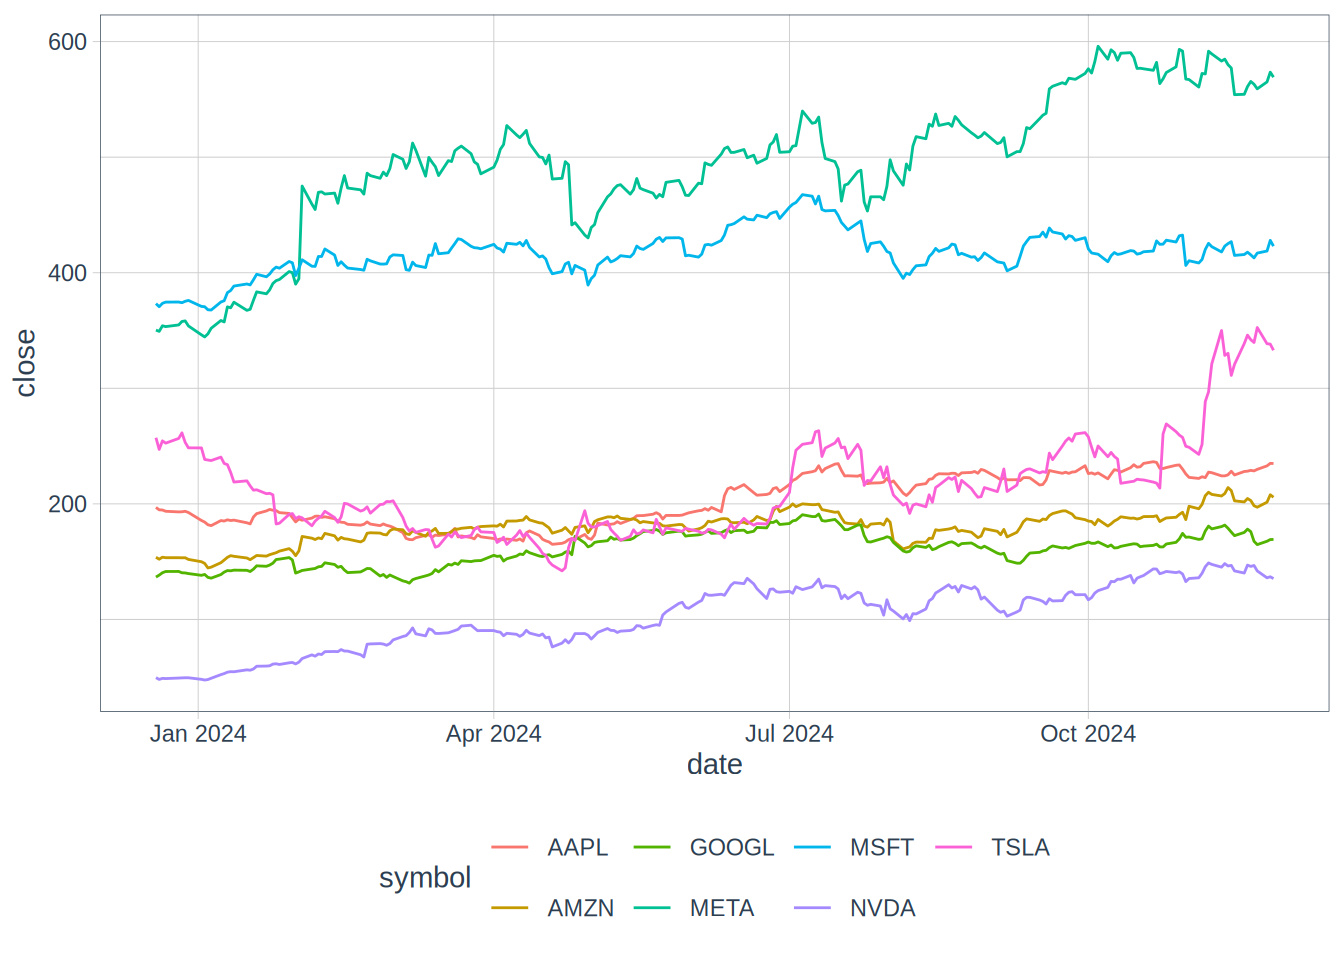
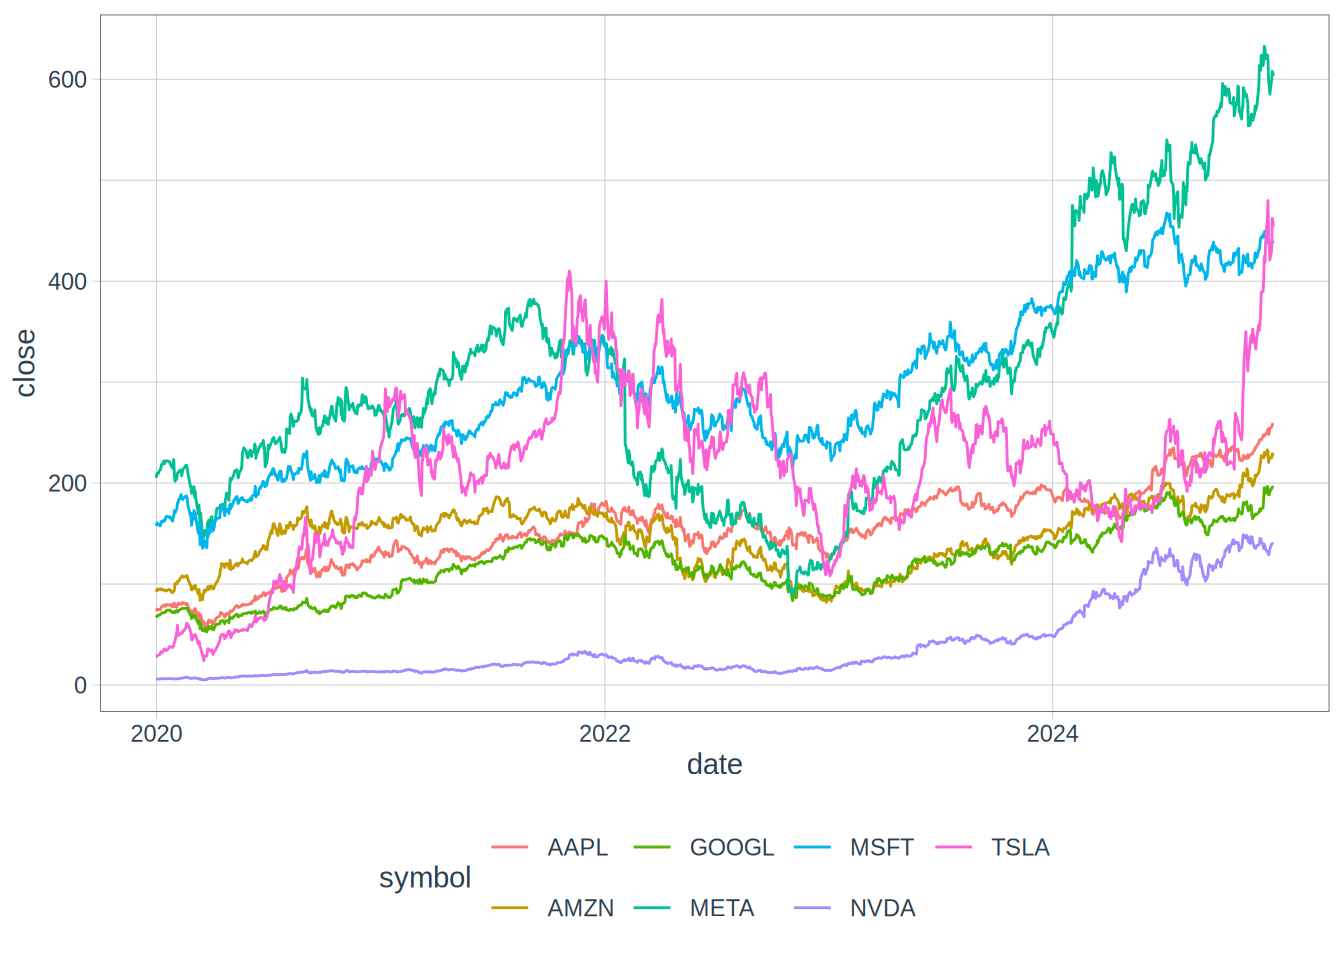
look back post render commit

diff --git a/docs/posts/best-worst-market-returns2024/index.html b/docs/posts/best-worst-market-returns2024/index.html
@@ -6,10 +6,10 @@
 
 <meta name="viewport" content="width=device-width, initial-scale=1.0, user-scalable=yes">
 
-<meta name="author" content="Your Name">
-<meta name="dcterms.date" content="2024-11-28">
+<meta name="author" content="Rob">
+<meta name="dcterms.date" content="2024-12-27">
 
-<title>Your Document Title – Rob’s Blog</title>
+<title>Looking Back at Tech – Rob’s Blog</title>
 <style>
 code{white-space: pre-wrap;}
 span.smallcaps{font-variant: small-caps;}
@@ -144,8 +144,11 @@ pre > code.sourceCode > span > a:first-child::before { text-decoration: underlin
 <header id="title-block-header" class="quarto-title-block default page-columns page-full">
   <div class="quarto-title-banner page-columns page-full">
     <div class="quarto-title column-body">
-      <h1 class="title">Your Document Title</h1>
-                      </div>
+      <h1 class="title">Looking Back at Tech</h1>
+                                <div class="quarto-categories">
+                <div class="quarto-category">market</div>
+              </div>
+                  </div>
   </div>
     
   
@@ -154,14 +157,14 @@ pre > code.sourceCode > span > a:first-child::before { text-decoration: underlin
       <div>
       <div class="quarto-title-meta-heading">Author</div>
       <div class="quarto-title-meta-contents">
-               <p>Your Name </p>
+               <p>Rob </p>
             </div>
     </div>
       
       <div>
       <div class="quarto-title-meta-heading">Published</div>
       <div class="quarto-title-meta-contents">
-        <p class="date">November 28, 2024</p>
+        <p class="date">December 27, 2024</p>
       </div>
     </div>
     
@@ -180,38 +183,45 @@ pre > code.sourceCode > span > a:first-child::before { text-decoration: underlin
 
 
 
+<section id="a-look-back-at-tech" class="level1">
+<h1>A Look Back at Tech</h1>
+<p>2024 is finally wrapping up, and it’s time to reconnect with the family and friends you’ve been avoiding all year. As you gather around, beers in hand, you quickly realize that the market has made everyone (else) rich this year. They’re tossing around buzzwords like: Clusters, Large Language Models, Silicon, Artificial Intelligence—words that have been soldered into your brain over the last few years. You lower your head in shame, knowing the only “chips” you bought this year were the ones that taste like Sour Cream and Onion.</p>
+<p>For much of 2023 and 2024 market returns have seemingly been concentrated in a handful of technology companies, particularly those focused on artificial intelligence. As a thought experiment, I thought it would be interesting to see what the sweet gains would like if I was able to jump into a time machine and purchase these stocks on the best day. For added fun, (and as an illustration of my luck), I also wanted to see what the largest losses would be if I had purchased the stock right before it had its worst draw down over the period and then sold at the low.</p>
+<p>To set this up this scenario, we are going to look at the stocks that make up the Bloomberg Magnificent 7 - AAPL, AMZN, GOOGL, META, MSFT, NVDA, TSLA. We are going to find the highest and lowest amount of profits that could have been made if I purchased a stock at one close price and sold it at another close price (a total of 2 transactions). Lets assume that I cannot sell a stock before it has been purchased and stock can be bought and sold on the same day (resulting in a profit of $0).</p>
+<p>First, lets load the libraries that we are going to be using to conduct our analysis.</p>
 <div class="cell">
 <div class="sourceCode cell-code" id="cb1"><pre class="sourceCode r code-with-copy"><code class="sourceCode r"><span id="cb1-1"><a href="#cb1-1" aria-hidden="true" tabindex="-1"></a><span class="co"># Load the libraries that are going to be used</span></span>
-<span id="cb1-2"><a href="#cb1-2" aria-hidden="true" tabindex="-1"></a><span class="fu">library</span>(tidyverse)</span>
-<span id="cb1-3"><a href="#cb1-3" aria-hidden="true" tabindex="-1"></a><span class="fu">library</span>(tidyquant)</span></code><button title="Copy to Clipboard" class="code-copy-button"><i class="bi"></i></button></pre></div>
+<span id="cb1-2"><a href="#cb1-2" aria-hidden="true" tabindex="-1"></a><span class="fu">library</span>(tidyverse) <span class="co"># To help with out data frame management and manipulation.</span></span>
+<span id="cb1-3"><a href="#cb1-3" aria-hidden="true" tabindex="-1"></a><span class="fu">library</span>(tidyquant) <span class="co"># this will help us gather the closing stock prices. </span></span></code><button title="Copy to Clipboard" class="code-copy-button"><i class="bi"></i></button></pre></div>
 </div>
+<p>Next, we will define a vector called stock_symbols and place the tickers for the companies that we are interested in looking at. The symbols I have chosen make up the Bloomberg Magnificent 7.</p>
+<p>After the tickers are defined, we pass these tickers through tidyquant’s built in tq_get() function, which will pull the daily volume and open, high, low, close, and adjusted stock prices for each of the symbols we defined. I am only interested in the closing price for each ticker, so I will use the select() function to extract the symbol, date, and close columns from the pulled data. Lets take a look at the first 10 rows to make sure we have the data we are looking for.</p>
 <div class="cell">
-<div class="sourceCode cell-code" id="cb2"><pre class="sourceCode r code-with-copy"><code class="sourceCode r"><span id="cb2-1"><a href="#cb2-1" aria-hidden="true" tabindex="-1"></a><span class="co"># Define the stock symbols. These will be pilled from yahoo finance. This is the Bloomberg Magnificent 7.</span></span>
+<div class="sourceCode cell-code" id="cb2"><pre class="sourceCode r code-with-copy"><code class="sourceCode r"><span id="cb2-1"><a href="#cb2-1" aria-hidden="true" tabindex="-1"></a><span class="co"># Define the stock symbols.</span></span>
 <span id="cb2-2"><a href="#cb2-2" aria-hidden="true" tabindex="-1"></a>stock_symbols <span class="ot">&lt;-</span> <span class="fu">c</span>(<span class="st">"AAPL"</span>, <span class="st">"AMZN"</span>, <span class="st">"GOOGL"</span>, <span class="st">"META"</span>, <span class="st">"MSFT"</span>, <span class="st">"NVDA"</span>, <span class="st">"TSLA"</span>)</span>
 <span id="cb2-3"><a href="#cb2-3" aria-hidden="true" tabindex="-1"></a></span>
-<span id="cb2-4"><a href="#cb2-4" aria-hidden="true" tabindex="-1"></a><span class="co"># Get the prices from yahoo finance using tidyquant from last year year end to date. From the original data that is pulled in, only keep the clsoing price and date for each symbol. IF there are errors, just rerun.``</span></span>
-<span id="cb2-5"><a href="#cb2-5" aria-hidden="true" tabindex="-1"></a>stock_prices <span class="ot">&lt;-</span> <span class="fu">tq_get</span>(stock_symbols, <span class="at">from=</span><span class="st">"2023-12-19"</span>) <span class="sc">%&gt;%</span> </span>
-<span id="cb2-6"><a href="#cb2-6" aria-hidden="true" tabindex="-1"></a>  <span class="fu">select</span>(symbol, date, close)</span>
-<span id="cb2-7"><a href="#cb2-7" aria-hidden="true" tabindex="-1"></a></span>
-<span id="cb2-8"><a href="#cb2-8" aria-hidden="true" tabindex="-1"></a><span class="co"># Show the stock prices</span></span>
-<span id="cb2-9"><a href="#cb2-9" aria-hidden="true" tabindex="-1"></a>stock_prices</span></code><button title="Copy to Clipboard" class="code-copy-button"><i class="bi"></i></button></pre></div>
+<span id="cb2-4"><a href="#cb2-4" aria-hidden="true" tabindex="-1"></a><span class="co"># Get the prices from yahoo finance using tidyquant</span></span>
+<span id="cb2-5"><a href="#cb2-5" aria-hidden="true" tabindex="-1"></a>stock_prices <span class="ot">&lt;-</span> <span class="fu">tq_get</span>(stock_symbols, <span class="at">get =</span> <span class="st">"stock.prices"</span>, <span class="at">from =</span> <span class="st">"2019-12-31"</span>, <span class="at">to =</span> <span class="st">"2024-12-27"</span>) <span class="sc">%&gt;%</span> <span class="fu">select</span>(symbol, date, close)</span>
+<span id="cb2-6"><a href="#cb2-6" aria-hidden="true" tabindex="-1"></a></span>
+<span id="cb2-7"><a href="#cb2-7" aria-hidden="true" tabindex="-1"></a><span class="co"># Show the stock prices</span></span>
+<span id="cb2-8"><a href="#cb2-8" aria-hidden="true" tabindex="-1"></a><span class="fu">head</span>(stock_prices, <span class="dv">10</span>)</span></code><button title="Copy to Clipboard" class="code-copy-button"><i class="bi"></i></button></pre></div>
 <div class="cell-output cell-output-stdout">
-<pre><code># A tibble: 1,666 × 3
+<pre><code># A tibble: 10 × 3
    symbol date       close
    &lt;chr&gt;  &lt;date&gt;     &lt;dbl&gt;
- 1 AAPL   2023-12-19  197.
- 2 AAPL   2023-12-20  195.
- 3 AAPL   2023-12-21  195.
- 4 AAPL   2023-12-22  194.
- 5 AAPL   2023-12-26  193.
- 6 AAPL   2023-12-27  193.
- 7 AAPL   2023-12-28  194.
- 8 AAPL   2023-12-29  193.
- 9 AAPL   2024-01-02  186.
-10 AAPL   2024-01-03  184.
-# ℹ 1,656 more rows</code></pre>
+ 1 AAPL   2019-12-31  73.4
+ 2 AAPL   2020-01-02  75.1
+ 3 AAPL   2020-01-03  74.4
+ 4 AAPL   2020-01-06  74.9
+ 5 AAPL   2020-01-07  74.6
+ 6 AAPL   2020-01-08  75.8
+ 7 AAPL   2020-01-09  77.4
+ 8 AAPL   2020-01-10  77.6
+ 9 AAPL   2020-01-13  79.2
+10 AAPL   2020-01-14  78.2</code></pre>
 </div>
 </div>
+<p>Next, let’s visualize the price data over time. We will use ggplot (built into the tidyquant library).</p>
 <div class="cell">
 <div class="sourceCode cell-code" id="cb4"><pre class="sourceCode r code-with-copy"><code class="sourceCode r"><span id="cb4-1"><a href="#cb4-1" aria-hidden="true" tabindex="-1"></a><span class="fu">theme_set</span>(<span class="fu">theme_tq</span>())</span>
 <span id="cb4-2"><a href="#cb4-2" aria-hidden="true" tabindex="-1"></a></span>
@@ -226,8 +236,79 @@ pre > code.sourceCode > span > a:first-child::before { text-decoration: underlin
 </div>
 </div>
 </div>
+<p>From the chart, it looks like there was a good amount of variance in 2020 following the 2020 global pandemic and the 2022 market downturn on the back of 40-year-high inflation that prompted the Federal Reserve to raise interest rates at the fasted rate in history. Next, we will cummax() and cummin() functions for each symbol to discover the highest and lowest future prices for each date.</p>
+<div class="cell">
+<div class="sourceCode cell-code" id="cb5"><pre class="sourceCode r code-with-copy"><code class="sourceCode r"><span id="cb5-1"><a href="#cb5-1" aria-hidden="true" tabindex="-1"></a>stock_prices <span class="sc">%&gt;%</span> </span>
+<span id="cb5-2"><a href="#cb5-2" aria-hidden="true" tabindex="-1"></a>  <span class="fu">arrange</span>(symbol, <span class="fu">desc</span>(date)) <span class="sc">%&gt;%</span> </span>
+<span id="cb5-3"><a href="#cb5-3" aria-hidden="true" tabindex="-1"></a>  <span class="fu">group_by</span>(symbol) <span class="sc">%&gt;%</span> </span>
+<span id="cb5-4"><a href="#cb5-4" aria-hidden="true" tabindex="-1"></a>  <span class="fu">mutate</span>(<span class="at">highest_future =</span> <span class="fu">cummax</span>(close),</span>
+<span id="cb5-5"><a href="#cb5-5" aria-hidden="true" tabindex="-1"></a>         <span class="at">lowest_future =</span> <span class="fu">cummin</span>(close))</span></code><button title="Copy to Clipboard" class="code-copy-button"><i class="bi"></i></button></pre></div>
+<div class="cell-output cell-output-stdout">
+<pre><code># A tibble: 8,792 × 5
+# Groups:   symbol [7]
+   symbol date       close highest_future lowest_future
+   &lt;chr&gt;  &lt;date&gt;     &lt;dbl&gt;          &lt;dbl&gt;         &lt;dbl&gt;
+ 1 AAPL   2024-12-26  259.           259.          259.
+ 2 AAPL   2024-12-24  258.           259.          258.
+ 3 AAPL   2024-12-23  255.           259.          255.
+ 4 AAPL   2024-12-20  254.           259.          254.
+ 5 AAPL   2024-12-19  250.           259.          250.
+ 6 AAPL   2024-12-18  248.           259.          248.
+ 7 AAPL   2024-12-17  253.           259.          248.
+ 8 AAPL   2024-12-16  251.           259.          248.
+ 9 AAPL   2024-12-13  248.           259.          248.
+10 AAPL   2024-12-12  248.           259.          248.
+# ℹ 8,782 more rows</code></pre>
+</div>
+</div>
+<p>To better understand the functions and the data in the table - lets look at the 10th row within the table. The closing price of AAPL on 12-12-2024 was $247.96 and what the lowest for the last 10 market days. The highest in the future was $259.02, meaning that if you had purchased AAPL on 12-12-2024, you would have gained over $11 per share with no draw down on your position over the last 10 market days.</p>
+<p>By finding the largest/smallest difference between each day’s price and the highest/lowest future price, we can calculate the highest possible gain and largest possible loss per share over the time period assuming one purchase and one sale.</p>
+<div class="cell">
+<div class="sourceCode cell-code" id="cb7"><pre class="sourceCode r code-with-copy"><code class="sourceCode r"><span id="cb7-1"><a href="#cb7-1" aria-hidden="true" tabindex="-1"></a>stock_prices <span class="sc">%&gt;%</span></span>
+<span id="cb7-2"><a href="#cb7-2" aria-hidden="true" tabindex="-1"></a>  <span class="fu">arrange</span>(symbol, <span class="fu">desc</span>(date)) <span class="sc">%&gt;%</span></span>
+<span id="cb7-3"><a href="#cb7-3" aria-hidden="true" tabindex="-1"></a>  <span class="fu">group_by</span>(symbol) <span class="sc">%&gt;%</span></span>
+<span id="cb7-4"><a href="#cb7-4" aria-hidden="true" tabindex="-1"></a>  <span class="fu">summarize</span>(<span class="at">highest_gain =</span> <span class="fu">max</span>(<span class="fu">cummax</span>(close) <span class="sc">-</span> close),</span>
+<span id="cb7-5"><a href="#cb7-5" aria-hidden="true" tabindex="-1"></a>            <span class="at">biggest_loss =</span> <span class="fu">min</span>(<span class="fu">cummin</span>(close) <span class="sc">-</span> close))</span></code><button title="Copy to Clipboard" class="code-copy-button"><i class="bi"></i></button></pre></div>
+<div class="cell-output cell-output-stdout">
+<pre><code># A tibble: 7 × 3
+  symbol highest_gain biggest_loss
+  &lt;chr&gt;         &lt;dbl&gt;        &lt;dbl&gt;
+1 AAPL           203.        -57.0
+2 AMZN           151.       -105. 
+3 GOOGL          144.        -66.4
+4 META           544.       -293. 
+5 MSFT           332.       -129. 
+6 NVDA           144.        -36.7
+7 TSLA           456.       -302. </code></pre>
+</div>
+</div>
+<p>Now lets add some variation to our analysis. When looking back at our biggest winners and biggest losers, we often kick ourselves for not holding on a bit longer - we either left money on the table or we took a larger loss by not staying put. I believe it was the Bitcoiners who coined the term “HODL” (Hold on for dear life). What if we change the parameters of our analysis so that we have to hold the stock for at least 1 year or about 252 trading days before selling? Does this change our results??</p>
+<div class="cell">
+<div class="sourceCode cell-code" id="cb9"><pre class="sourceCode r code-with-copy"><code class="sourceCode r"><span id="cb9-1"><a href="#cb9-1" aria-hidden="true" tabindex="-1"></a><span class="co"># Separated into a mutate and a summarize just for the sake of clarity</span></span>
+<span id="cb9-2"><a href="#cb9-2" aria-hidden="true" tabindex="-1"></a>stock_prices <span class="sc">%&gt;%</span></span>
+<span id="cb9-3"><a href="#cb9-3" aria-hidden="true" tabindex="-1"></a>  <span class="fu">arrange</span>(symbol, <span class="fu">desc</span>(date)) <span class="sc">%&gt;%</span></span>
+<span id="cb9-4"><a href="#cb9-4" aria-hidden="true" tabindex="-1"></a>  <span class="fu">group_by</span>(symbol) <span class="sc">%&gt;%</span></span>
+<span id="cb9-5"><a href="#cb9-5" aria-hidden="true" tabindex="-1"></a>  <span class="fu">mutate</span>(<span class="at">highest_future =</span> <span class="fu">lag</span>(<span class="fu">cummax</span>(close), <span class="dv">252</span>),</span>
+<span id="cb9-6"><a href="#cb9-6" aria-hidden="true" tabindex="-1"></a>         <span class="at">lowest_future =</span> <span class="fu">lag</span>(<span class="fu">cummin</span>(close), <span class="dv">252</span>)) <span class="sc">%&gt;%</span></span>
+<span id="cb9-7"><a href="#cb9-7" aria-hidden="true" tabindex="-1"></a>  <span class="fu">summarize</span>(<span class="at">highest_gain =</span> <span class="fu">max</span>(highest_future <span class="sc">-</span> close, <span class="at">na.rm =</span> <span class="cn">TRUE</span>),</span>
+<span id="cb9-8"><a href="#cb9-8" aria-hidden="true" tabindex="-1"></a>            <span class="at">biggest_loss =</span> <span class="fu">min</span>(lowest_future <span class="sc">-</span> close, <span class="at">na.rm =</span> <span class="cn">TRUE</span>))</span></code><button title="Copy to Clipboard" class="code-copy-button"><i class="bi"></i></button></pre></div>
+<div class="cell-output cell-output-stdout">
+<pre><code># A tibble: 7 × 3
+  symbol highest_gain biggest_loss
+  &lt;chr&gt;         &lt;dbl&gt;        &lt;dbl&gt;
+1 AAPL           203.        -57.0
+2 AMZN           151.       -105. 
+3 GOOGL          144.        -64.6
+4 META           544.       -293. 
+5 MSFT           332.       -121. 
+6 NVDA           144.        -19.3
+7 TSLA           456.       -302. </code></pre>
+</div>
+</div>
+<p>As we can see from our revised table, the largest possible gains for each of the tickers does not change (probably as expected). Over this time frame, the losses really only change marginally - these stocks have been growing over time - especially in 2023 and 2024.</p>
 
 
+</section>
 
 </main> <!-- /main -->
 <script id="quarto-html-after-body" type="application/javascript">

diff --git a/docs/index.html b/docs/index.html
@@ -186,7 +186,7 @@ window.Quarto = {
 <!-- margin-sidebar -->
     <div id="quarto-margin-sidebar" class="sidebar margin-sidebar">
         
-    <h5 class="quarto-listing-category-title">Categories</h5><div class="quarto-listing-category category-default"><div class="category" data-category="">All <span class="quarto-category-count">(3)</span></div><div class="category" data-category="analysis">analysis <span class="quarto-category-count">(1)</span></div><div class="category" data-category="code">code <span class="quarto-category-count">(1)</span></div><div class="category" data-category="news">news <span class="quarto-category-count">(2)</span></div></div></div>
+    <h5 class="quarto-listing-category-title">Categories</h5><div class="quarto-listing-category category-default"><div class="category" data-category="">All <span class="quarto-category-count">(3)</span></div><div class="category" data-category="analysis">analysis <span class="quarto-category-count">(1)</span></div><div class="category" data-category="code">code <span class="quarto-category-count">(1)</span></div><div class="category" data-category="market">market <span class="quarto-category-count">(1)</span></div><div class="category" data-category="news">news <span class="quarto-category-count">(2)</span></div></div></div>
 <!-- main -->
 <main class="content quarto-banner-title-block column-page-left" id="quarto-document-content">
 
@@ -200,7 +200,7 @@ window.Quarto = {
 
 <div class="quarto-listing quarto-listing-container-grid" id="listing-listing">
 <div class="list grid quarto-listing-cols-3">
-<div class="g-col-1" data-index="0" data-listing-date-sort="1732773600000" data-listing-file-modified-sort="1732856742522" data-listing-date-modified-sort="NaN" data-listing-reading-time-sort="1" data-listing-word-count-sort="91">
+<div class="g-col-1" data-index="0" data-categories="market" data-listing-date-sort="1735279200000" data-listing-file-modified-sort="1735362507900" data-listing-date-modified-sort="NaN" data-listing-reading-time-sort="5" data-listing-word-count-sort="962">
 <a href="./posts/best-worst-market-returns2024/index.html" class="quarto-grid-link">
 <div class="quarto-grid-item card h-100 card-left">
 <p class="card-img-top">
@@ -208,28 +208,29 @@ window.Quarto = {
 </p>
 <div class="card-body post-contents">
 <h5 class="no-anchor card-title listing-title">
-Your Document Title
+Looking Back at Tech
 </h5>
+<div class="listing-categories">
+<div class="listing-category" onclick="window.quartoListingCategory('market'); return false;">
+market
+</div>
+</div>
 <div class="card-text listing-description">
-
-<div class="sourceCode cell-code" id="cb1"><pre class="sourceCode r code-with-copy"><code class="sourceCode r"><span id="cb1-1"><span class="co"># Load the libraries that are going to be used</span></span>
-<span id="cb1-2"><span class="fu">library</span>(tidyverse)</span>
-<span id="cb1-3"><span class="fu">library</span>(tidyquant)</span></code></pre></div>
-
+2024 is finally wrapping up, and it’s time to reconnect with the family and friends you’ve been avoiding all year. As you gather around, beers in hand, you quickly realize…
 </div>
 <div class="card-attribution card-text-small justify">
 <div class="listing-author">
-Your Name
+Rob
 </div>
 <div class="listing-date">
-Nov 28, 2024
+Dec 27, 2024
 </div>
 </div>
 </div>
 </div>
 </a>
 </div>
-<div class="g-col-1" data-index="1" data-categories="news,code,analysis" data-listing-date-sort="1732687200000" data-listing-file-modified-sort="1732765349020" data-listing-date-modified-sort="NaN" data-listing-reading-time-sort="1" data-listing-word-count-sort="9">
+<div class="g-col-1" data-index="1" data-categories="news,code,analysis" data-listing-date-sort="1732687200000" data-listing-file-modified-sort="1735362269933" data-listing-date-modified-sort="NaN" data-listing-reading-time-sort="1" data-listing-word-count-sort="11">
 <a href="./posts/post-with-code/index.html" class="quarto-grid-link">
 <div class="quarto-grid-item card h-100 card-left">
 <p class="card-img-top">

diff --git a/docs/posts/post-with-code/index.html b/docs/posts/post-with-code/index.html
@@ -9,7 +9,7 @@
 <meta name="author" content="Harlow Malloc">
 <meta name="dcterms.date" content="2024-11-27">
 
-<title>Post With Code – quarto-blog</title>
+<title>Post With Code – Rob’s Blog</title>
 <style>
 code{white-space: pre-wrap;}
 span.smallcaps{font-variant: small-caps;}
@@ -115,7 +115,7 @@ pre > code.sourceCode > span > a:first-child::before { text-decoration: underlin
       <div class="navbar-container container-fluid">
       <div class="navbar-brand-container mx-auto">
     <a class="navbar-brand" href="../../index.html">
-    <span class="navbar-title">quarto-blog</span>
+    <span class="navbar-title">Rob’s Blog</span>
     </a>
   </div>
             <div id="quarto-search" class="" title="Search"></div>
@@ -129,12 +129,7 @@ pre > code.sourceCode > span > a:first-child::before { text-decoration: underlin
 <span class="menu-text">About</span></a>
   </li>  
   <li class="nav-item compact">
-    <a class="nav-link" href="https://github.com/"> <i class="bi bi-github" role="img">
-</i> 
-<span class="menu-text"></span></a>
-  </li>  
-  <li class="nav-item compact">
-    <a class="nav-link" href="https://twitter.com"> <i class="bi bi-twitter" role="img">
+    <a class="nav-link" href="https://github.com/FranklinTheTank"> <i class="bi bi-github" role="img">
 </i> 
 <span class="menu-text"></span></a>
   </li>  
